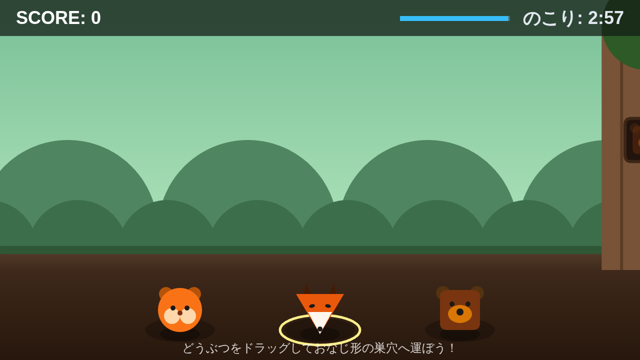
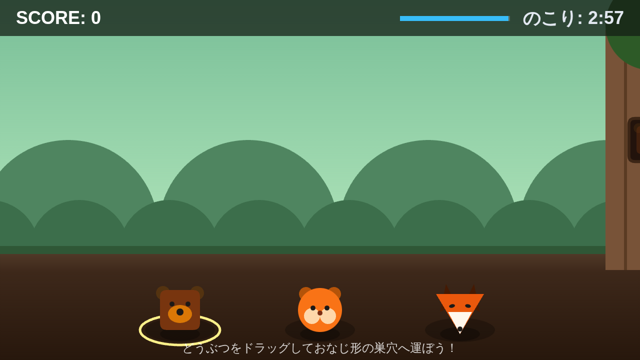
ミニゲームを更新（全 17 本）

diff --git a/index.html b/index.html
@@ -81,7 +81,7 @@ dialog::backdrop{background:rgba(3,4,10,.75)}
 </div>
 <main id="list"></main>
 <dialog id="dlg"><div class="sheet" id="sheet"></div></dialog>
-<script type="application/json" id="data">[{"id": "20261124-133436-gemini-flash", "title": "スクラップバスター", "summary": "暴走ロボが溢れかえる機械工場を舞台にした全方位シューティング！3分間でギアを集めハイスコアを叩き出せ。", "rules": ["ドラッグ操作で自機ドローンを360度自由に移動させます。", "弾は最も近い敵へ向けて自動で連続発射されます。", "敵を破壊すると出現する「ギア」を拾うと得点と倍率ゲージがアップします。", "敵や敵弾に当たるとHPが減少し、倍率がリセットされます。", "制限時間180秒（3分）生き残り、最高スコアを目指します（HPゼロでも終了）。"], "controls": {"スマホ": "画面を指でドラッグして自機を全方向へ移動（相対移動）。攻撃は自動で行われます。", "PC": "マウスのドラッグまたは矢印キー（WASD）で自機を全方向へ移動。攻撃は自動で行われます。"}, "playTime": "約3分", "tags": {"視点": "全方向", "核": "シューティング", "ひねり": "なし", "勝利条件": "スコアアタック", "操作": "ドラッグ", "テーマ": "機械工場", "プレイ時間": "約3分"}, "created": "2026-11-24T13:34:36", "fixes": 0, "batch": "20261124-133436", "profile": "gemini-flash", "label": "Gemini 3.8 Flash", "models": {"planner": "gemini-3.8-flash", "coder": "gemini-3.8-flash"}, "mock": false, "review": {"fun_score": 4, "comment": null}}, {"id": "20261124-134810-gemini-flash", "title": "あまやみダイブ", "summary": "暗闇に包まれた巨大スイーツの底へダイブ！光る金平糖を操作し、一瞬の視界を頼りに障害物を避けて3分間生き延びよう。", "rules": ["周囲しか見えない暗闇の中を落下し続ける縦スクロールアクション。", "左右スワイプで障害物を回避し、危険な仕掛けを避ける。", "タップで発動する『シュガースパーク』で一瞬だけ画面全体を照らし、ルートを確認できる。", "障害物にぶつからずに3分間（180秒）生き延びればゲームクリア。"], "controls": {"スマホ": "左右スワイプで金平糖を横移動。タップで光を放ち、一瞬だけ視界を全開にする。", "PC": "左右矢印キー（またはA/D）で移動。マウスクリックまたはスペースキーで全画面フラッシュ。"}, "playTime": "約3分", "tags": {"視点": "縦スクロール", "核": "アクション", "ひねり": "周囲しか見えない暗闇", "勝利条件": "生存時間", "操作": "タップ/スワイプ", "テーマ": "お菓子", "プレイ時間": "約3分"}, "created": "2026-11-24T13:48:10", "fixes": 0, "batch": "20261124-134810", "profile": "gemini-flash", "label": "Gemini 3.8 Flash", "models": {"planner": "gemini-3.8-flash", "coder": "gemini-3.8-flash"}, "mock": false, "review": {"fun_score": 4, "comment": null}}, {"id": "20261124-134953-gemini-flash", "title": "ツインルーン", "summary": "正反対に動く2体の使い魔を操り、古代遺跡のギミックを解き明かすシンクロパズル！制限時間3分でどれだけ多くの祭壇を起動できるか挑もう。", "rules": ["十字キーで太陽の使い魔（順行）と月の使い魔（点対称で逆行）が2体同時に動きます。", "2体の間を結ぶ光の糸をルーンストーンに接触させると回収でき、スコアとコンボ倍率が増加します。", "部屋にある2つの祭壇に太陽と月を同時に重ねると部屋クリアとなり、残り時間が増加して次のパズルへ進みます。", "制限時間3分（180秒）以内に解いた部屋数と回収したルーンの合計スコアを競います。"], "controls": {"スマホ": "画面下の十字キーで2体同時に移動。リンクボタン（Aボタン）を押している間、2体の間に光の糸を張ります。", "PC": "矢印キー/WASDで2体同時に移動。Zキー/Spaceキーを押している間、2体の間に光の糸を張ります。"}, "playTime": "約3分", "tags": {"視点": "全方向", "核": "パズル", "ひねり": "自機が2体同時に動く", "勝利条件": "スコアアタック", "操作": "仮想パッド", "テーマ": "ドット絵風", "プレイ時間": "約3分"}, "created": "2026-11-24T13:49:53", "fixes": 0, "batch": "20261124-134953", "profile": "gemini-flash", "label": "Gemini 3.8 Flash", "models": {"planner": "gemini-3.8-flash", "coder": "gemini-3.8-flash"}, "mock": false, "review": {"fun_score": 4, "comment": null}}, {"id": "20261124-135140-gemini-flash", "title": "スターソーター", "summary": "宇宙艇を操り、漂うエネルギークオーツを同色で3つ並べて消去する王道全方向パズルアクション。", "rules": ["仮想十字キーで宇宙艇を全方向に動かし、Aボタンで目の前のクオーツを牽引・運搬します。", "同じ色のクオーツを縦または横に3つ以上一直線に接触させると消滅し、スコアを獲得します。", "制限時間は3分間。連続で素早く消すとコンボボーナスが発生します。"], "controls": {"スマホ": "画面下の十字キーで宇宙艇の移動。Aボタンでクオーツの牽引／解放を切り替えます。", "PC": "矢印キーで宇宙艇の移動。Zキー（Aボタン）でクオーツの牽引／解放を切り替えます。"}, "playTime": "約3分", "tags": {"視点": "全方向", "核": "パズル", "ひねり": "なし", "勝利条件": "スコアアタック", "操作": "仮想パッド", "テーマ": "宇宙", "プレイ時間": "約3分"}, "created": "2026-11-24T13:51:40", "fixes": 0, "batch": "20261124-135140", "profile": "gemini-flash", "label": "Gemini 3.8 Flash", "models": {"planner": "gemini-3.8-flash", "coder": "gemini-3.8-flash"}, "mock": false, "review": {"fun_score": 4, "comment": null}}, {"id": "20261124-135334-gemini-flash", "title": "すりぬけグミタワー", "summary": "異色はすり抜け、同色だけが積み重なる！3分間で巨大なスイーツタワーを築き上げる新感覚落ちモノパズル。", "rules": ["上から落ちてくるグミは「同じ色」と「床」にしか衝突せず、違う色はすり抜けて落下します。", "同じ色のグミをタテ・ヨコに3つ以上つなげると弾けて消滅し、スコアを獲得できます。", "グミを消すとカメラが上へスクロールし、新たなトレイ（床）が現れてタワーが上空へ伸びていきます。", "制限時間は3分間。画面上部にあるデンジャーラインまで同色グミが詰まるとペナルティ（減点＆数秒フリーズ）となります。"], "controls": {"スマホ": "画面を左右スワイプで落下中グミの移動、下スワイプで即座に着地、タップでグミの向きを90度回転。", "PC": "左右矢印キーで移動、下キー（またはスペース）で高速落下、上キーまたはクリックで回転。"}, "playTime": "約3分", "tags": {"視点": "縦スクロール", "核": "落ちモノパズル", "ひねり": "同じ色同士でしか干渉しない", "勝利条件": "スコアアタック", "操作": "タップ/スワイプ", "テーマ": "お菓子", "プレイ時間": "約3分"}, "created": "2026-11-24T13:53:34", "fixes": 0, "batch": "20261124-135334", "profile": "gemini-flash", "label": "Gemini 3.8 Flash", "models": {"planner": "gemini-3.8-flash", "coder": "gemini-3.8-flash"}, "mock": false, "review": {"fun_score": 4, "comment": null}}, {"id": "20261124-135650-gemini-flash", "title": "もりのわくあわせ", "summary": "流れてくる大木の穴に、形に合った森の動物たちをドラッグしてすっぽりはめる横スクロール型はめパズル！", "rules": ["右から左へ流れてくる大木には「丸・三角・四角」の形をした巣穴が開いている。", "画面内の動物（リス＝丸、キツネ＝三角、クマ＝四角）をドラッグして正しい巣穴へ運ぶ。", "ぴったり合う巣穴にはめると得点＆コンボ増加。違う穴に入れると弾かれてコンボがリセット。", "3分間の制限時間内にできるだけ多くの動物をお家に帰してハイスコアを目指す。"], "controls": {"スマホ": "画面をドラッグして動物を掴み、そのまま指を滑らせて目的の巣穴まで運んで離します。", "PC": "マウスドラッグまたは矢印キーで動物を掴んで移動させ、巣穴に重ねて配置します。"}, "playTime": "約3分", "tags": {"視点": "横スクロール", "核": "パズル", "ひねり": "なし", "勝利条件": "スコアアタック", "操作": "ドラッグ", "テーマ": "森と動物", "プレイ時間": "約3分"}, "created": "2026-11-24T13:56:50", "fixes": 1, "batch": "20261124-135650", "profile": "gemini-flash", "label": "Gemini 3.8 Flash", "models": {"planner": "gemini-3.8-flash", "coder": "gemini-3.8-flash"}, "mock": false, "review": {"fun_score": 4, "comment": null}}, {"id": "20261124-140247-gemini-flash", "title": "マグネフォージ", "summary": "磁気ドローンを操り、鉄くずを引き寄せて弾き飛ばす工場アクション！スクラップを炉へ一気にシュートしてハイスコアを目指せ。", "rules": ["十字キーで全方向に移動し、Aボタンで磁気吸引、Bボタンで磁気反発を発動する", "散らばる金属スクラップを吸引して引き連れ、反発で画面上部の「溶解炉」へ弾き飛ばすと得点", "赤熱した危険ボルトに当たるとタイムロス。反発で弾き飛ばして安全を確保せよ", "制限時間180秒（3分）でどれだけ多くのスクラップを処理できるかを競う"], "controls": {"スマホ": "画面下の十字キーで移動、Aボタンで吸い寄せ（長押し）、Bボタンで周囲へ強力に弾き飛ばします。", "PC": "矢印キーで移動、Zキー長押しで吸い寄せ、Xキーで弾き飛ばします。"}, "playTime": "約3分", "tags": {"視点": "全方向", "核": "アクション", "ひねり": "磁石で引き寄せる・弾く", "勝利条件": "スコアアタック", "操作": "仮想パッド", "テーマ": "機械工場", "プレイ時間": "約3分"}, "created": "2026-11-24T14:02:47", "fixes": 0, "batch": "20261124-140247", "profile": "gemini-flash", "label": "Gemini 3.8 Flash", "models": {"planner": "gemini-3.8-flash", "coder": "gemini-3.8-flash"}, "mock": false, "review": {"fun_score": 4, "comment": null}}, {"id": "20261124-140403-gemini-flash", "title": "ネオンバウンド", "summary": "煌めく夜の摩天楼を駆け抜けろ！ビルの壁で反射するレーザーを駆使して、正面無敵の暴走ボスを撃破する跳弾シューティング。", "rules": ["画面ドラッグで自機（サイバーバイク）を自由に移動、ショットは自動連射", "左右のビルの壁に弾を当てると斜めに反射し、攻撃力と弾速がアップ", "道中の敵ドローンを倒しながら夜の高速道路を進み、最奥のボスを目指す", "ボスは正面シールドを展開！壁の反射弾を側面や背後に撃ち込んで撃破せよ"], "controls": {"スマホ": "画面を指でドラッグして自機を移動（指の相対移動で自機が隠れません）。", "PC": "マウスドラッグまたは矢印キー（WASD）で自機を移動。"}, "playTime": "約1分", "tags": {"視点": "縦スクロール", "核": "シューティング", "ひねり": "弾や物体が壁で反射する", "勝利条件": "ボス撃破", "操作": "ドラッグ", "テーマ": "夜の街", "プレイ時間": "約1分"}, "created": "2026-11-24T14:04:03", "fixes": 0, "batch": "20261124-140403", "profile": "gemini-flash", "label": "Gemini 3.8 Flash", "models": {"planner": "gemini-3.8-flash", "coder": "gemini-3.8-flash"}, "mock": false, "review": {"fun_score": 4, "comment": null}}, {"id": "20261124-140554-gemini-flash", "title": "ペラリクラフト", "summary": "紙工作の世界でブロックを積んで消す落ちモノパズル。一定時間ごとに紙が裏返り、左右操作が反転するハプニングを乗り越えてゴールを目指します。", "rules": ["上から落ちてくる折り紙ブロックを並べ、横一列揃えて消すとステージが下へ進みます。", "数秒ごとに画面がペラッとめくれ、オモテとウラが切り替わります。", "ウラ面中は左右キーの操作が反転！落ち着いて操作を切り替えましょう。", "ブロックを規定ライン数消して一番奥のゴールへ到達すればクリア。上まで詰まると失敗です。"], "controls": {"スマホ": "画面下の十字キーでピースの左右移動と高速落下、Aボタンでピースを回転させます。", "PC": "矢印キー（左右で移動・下で落下）とZキー（またはAキー）でピースを回転させます。"}, "playTime": "約1分", "tags": {"視点": "縦スクロール", "核": "落ちモノパズル", "ひねり": "操作が一定時間ごとに反転する", "勝利条件": "ステージクリア", "操作": "仮想パッド", "テーマ": "紙工作風", "プレイ時間": "約1分"}, "created": "2026-11-24T14:05:54", "fixes": 0, "batch": "20261124-140554", "profile": "gemini-flash", "label": "Gemini 3.8 Flash", "models": {"planner": "gemini-3.8-flash", "coder": "gemini-3.8-flash"}, "mock": false, "review": {"fun_score": 4, "comment": null}}, {"id": "20261124-140745-gemini-flash", "title": "アストロデュオ", "summary": "点対称に逆連動する2隻の宇宙船を同時に操り、全方向から迫る隕石群を回避し続けるサバイバルアクション。", "rules": ["画面をドラッグすると、青の機体はそのまま、赤の機体は正反対の方向へ同時に動きます。", "画面外から全方向で飛来する小惑星や宇宙デブリを、2隻とも当たらないように避け続けます。", "どちらか1隻でも衝突するとシールドが尽きてゲームオーバーになります。", "3分間（180秒）生き残ると救助ワープが発動してクリアです。"], "controls": {"スマホ": "画面を指でドラッグして2隻を操作します（指の移動量に応じて相対移動します）。", "PC": "マウスのドラッグ、または矢印キーで2隻を同時に動かします。"}, "playTime": "約3分", "tags": {"視点": "全方向", "核": "アクション", "ひねり": "自機が2体同時に動く", "勝利条件": "生存時間", "操作": "ドラッグ", "テーマ": "宇宙", "プレイ時間": "約3分"}, "created": "2026-11-24T14:07:45", "fixes": 0, "batch": "20261124-140745", "profile": "gemini-flash", "label": "Gemini 3.8 Flash", "models": {"planner": "gemini-3.8-flash", "coder": "gemini-3.8-flash"}, "mock": false, "review": {"fun_score": 4, "comment": null}}, {"id": "20261124-140914-gemini-flash", "title": "クリームバレット", "summary": "迫りくるホイップクリームの壁を押し戻しながら、360度から湧き出るお菓子を撃ち倒す全方向シューティング。", "rules": ["画面ドラッグで自機を全方向に移動し、自動連射される弾で敵お菓子を撃破します。", "画面外周から生クリームが迫り、安全エリアが徐々に狭くなります。", "敵を倒すと出る「イチゴ」を拾うと、クリームを押し戻して視界を広げられます。", "クリームに押しつぶされるか敵に当たるとゲーム終了。3分耐え抜いてハイスコアを目指します。"], "controls": {"スマホ": "画面を指でドラッグして自機を相対移動（指で自機が隠れません）。射撃は自動。", "PC": "マウスドラッグまたは矢印キー（WASD）で自機を移動。射撃は自動。"}, "playTime": "約3分", "tags": {"視点": "全方向", "核": "シューティング", "ひねり": "画面がだんだん狭くなる", "勝利条件": "スコアアタック", "操作": "ドラッグ", "テーマ": "お菓子", "プレイ時間": "約3分"}, "created": "2026-11-24T14:09:14", "fixes": 0, "batch": "20261124-140914", "profile": "gemini-flash", "label": "Gemini 3.8 Flash", "models": {"planner": "gemini-3.8-flash", "coder": "gemini-3.8-flash"}, "mock": false, "review": {"fun_score": 4, "comment": null}}, {"id": "20261124-151033-gemini-flash", "title": "マカロンスプリット", "summary": "叩くたびに倍増するスイーツの群れをかき分け、巨大ボスマカロンの完全討伐を目指す横スクロールアクション！", "rules": ["左右キーで移動、Aでジャンプ、Bでスプーン攻撃。", "敵のお菓子は倒すと2体の小さなサイズに分裂して素早く跳ね回る。", "最奥に待ち構えるボスマカロンを分裂させ、最小サイズまで全て倒せばクリア。", "敵やトゲに3回接触してハートがゼロになるとゲームオーバー。"], "controls": {"スマホ": "十字キーで移動、Aボタンでジャンプ、Bボタンでスプーン攻撃を行います。", "PC": "矢印キーで移動、Zキーでジャンプ、Xキーでスプーン攻撃を行います。"}, "playTime": "約3分", "tags": {"視点": "横スクロール", "核": "アクション", "ひねり": "倒すと分裂する", "勝利条件": "ボス撃破", "操作": "仮想パッド", "テーマ": "お菓子", "プレイ時間": "約3分"}, "created": "2026-11-24T15:10:53", "fixes": 0, "batch": "20261124-151033", "profile": "gemini-flash", "label": "Gemini 3.8 Flash", "models": {"planner": "gemini-flash", "coder": "gemini-3.8-flash"}, "mock": false, "review": {"fun_score": 4, "comment": null}}, {"id": "20261124-151033-local-llm", "title": "マカロンスプリット", "summary": "叩くたびに倍増するスイーツの群れをかき分け、巨大ボスマカロンの完全討伐を目指す横スクロールアクション！", "rules": ["左右キーで移動、Aでジャンプ、Bでスプーン攻撃。", "敵のお菓子は倒すと2体の小さなサイズに分裂して素早く跳ね回る。", "最奥に待ち構えるボスマカロンを分裂させ、最小サイズまで全て倒せばクリア。", "敵やトゲに3回接触してハートがゼロになるとゲームオーバー。"], "controls": {"スマホ": "十字キーで移動、Aボタンでジャンプ、Bボタンでスプーン攻撃を行います。", "PC": "矢印キーで移動、Zキーでジャンプ、Xキーでスプーン攻撃を行います。"}, "playTime": "約3分", "tags": {"視点": "横スクロール", "核": "アクション", "ひねり": "倒すと分裂する", "勝利条件": "ボス撃破", "操作": "仮想パッド", "テーマ": "お菓子", "プレイ時間": "約3分"}, "created": "2026-11-24T15:12:24", "fixes": 0, "batch": "20261124-151033", "profile": "local-llm", "label": "ローカルLLM", "models": {"planner": "gemini-flash", "coder": "Qwen/Qwen3.8-27B"}, "mock": false, "review": {"fun_score": 4, "comment": null}}, {"id": "20261124-151819-gemini-flash", "title": "クラヤミビーコン", "summary": "視界ゼロの暗黒宇宙をライトの明かりだけを頼りに突き進む、ワンボタン操作の全方位サバイバルアクション。", "rules": ["自機は自動で時計回りに旋回し、画面を押している間だけ向いている方向へブースト前進します。", "自機の周囲ごくわずかしか見えない暗闇の中、迫り来るデブリや宇宙機雷を避けてください。", "浮遊する「フォトン」を拾うと視界が一時的に広がり、索敵が有利になります。", "障害物に一度でも激突すると大破。3分間（180秒）生き延びれば脱出成功です。"], "controls": {"スマホ": "画面タップ長押しでブースト前進。指を離すとその場で旋回します。", "PC": "スペースキー/Zキー長押しでブースト前進。キーを離すとその場で旋回します。"}, "playTime": "約3分", "tags": {"視点": "全方向", "核": "アクション", "ひねり": "周囲しか見えない暗闇", "勝利条件": "生存時間", "操作": "ワンボタン", "テーマ": "宇宙", "プレイ時間": "約3分"}, "created": "2026-11-24T15:18:42", "fixes": 0, "batch": "20261124-151819", "profile": "gemini-flash", "label": "Gemini 3.8 Flash", "models": {"planner": "gemini-flash", "coder": "gemini-3.8-flash"}, "mock": false, "review": {"fun_score": 4, "comment": null}}, {"id": "20261124-151819-local-llm", "title": "クラヤミビーコン", "summary": "視界ゼロの暗黒宇宙をライトの明かりだけを頼りに突き進む、ワンボタン操作の全方位サバイバルアクション。", "rules": ["自機は自動で時計回りに旋回し、画面を押している間だけ向いている方向へブースト前進します。", "自機の周囲ごくわずかしか見えない暗闇の中、迫り来るデブリや宇宙機雷を避けてください。", "浮遊する「フォトン」を拾うと視界が一時的に広がり、索敵が有利になります。", "障害物に一度でも激突すると大破。3分間（180秒）生き延びれば脱出成功です。"], "controls": {"スマホ": "画面タップ長押しでブースト前進。指を離すとその場で旋回します。", "PC": "スペースキー/Zキー長押しでブースト前進。キーを離すとその場で旋回します。"}, "playTime": "約3分", "tags": {"視点": "全方向", "核": "アクション", "ひねり": "周囲しか見えない暗闇", "勝利条件": "生存時間", "操作": "ワンボタン", "テーマ": "宇宙", "プレイ時間": "約3分"}, "created": "2026-11-24T15:19:50", "fixes": 0, "batch": "20261124-151819", "profile": "local-llm", "label": "ローカルLLM", "models": {"planner": "gemini-flash", "coder": "Qwen/Qwen3.8-27B"}, "mock": false, "review": {"fun_score": 4, "comment": null}}, {"id": "20261124-160004-gemini-flash", "title": "オリガミてんち", "summary": "クラフト紙の世界を傾け、折り紙のコマを滑らせる全方向アクション。タップの重力反転でトラップをすり抜け、全ステージ走破を目指そう！", "rules": ["スワイプで盤面を傾けて重力を上下左右に切り替え、紙のコマを滑らせる", "タップすると重力の向きが真逆に反転！急停止や切り返しに活用しよう", "画鋲やハサミ、台紙の穴に触れるとミスになり、ステージの最初からやり直し", "散らばった金箔シールをすべて回収し、点線の「のりしろゴール」に入ればステージクリア（全5面）"], "controls": {"スマホ": "上下左右スワイプで重力の方向を指定。画面タップで現在の重力を180度反転。", "PC": "矢印キー（またはWASD）で重力方向を指定。画面クリックで重力を180度反転。"}, "playTime": "約3分", "tags": {"視点": "全方向", "核": "アクション", "ひねり": "重力反転", "勝利条件": "ステージクリア", "操作": "タップ/スワイプ", "テーマ": "紙工作風", "プレイ時間": "約3分"}, "created": "2026-11-24T16:00:04", "fixes": 0, "batch": "20261124-160004", "profile": "gemini-flash", "label": "Gemini 3.8 Flash", "models": {"planner": "gemini-3.8-flash", "coder": "gemini-3.8-flash"}, "mock": false, "review": {"fun_score": 4, "comment": null}}, {"id": "20261124-164406-gemini-flash", "title": "焦熱のプリン王", "summary": "四方から迫る焦げの壁を避けながら暴走するプリン王を撃破せよ！刻一刻と狭まる天板の上で戦うお菓子アクション。", "rules": ["十字キーで移動し、Aボタンで金平糖ショットを撃ってボスを攻撃します。", "時間が経つにつれて画面の四方からオーブンの熱で焦げた壁が迫り、足場が縮小します。", "焦げた外周に触れると継続ダメージ、ボスの攻撃に当たると即ダメージを受けます。", "制限時間（約60秒で足場が最小化）内にボスのHPを削り切れば勝利です。"], "controls": {"スマホ": "画面下の十字キーで8方向移動、Aボタンで金平糖ショットを向いている方向に連射します。", "PC": "矢印キーで8方向移動、Zキーで金平糖ショットを向いている方向に連射します。"}, "playTime": "約1分", "tags": {"視点": "全方向", "核": "アクション", "ひねり": "画面がだんだん狭くなる", "勝利条件": "ボス撃破", "操作": "仮想パッド", "テーマ": "お菓子", "プレイ時間": "約1分"}, "created": "2026-11-24T16:45:35", "fixes": 0, "batch": "20261124-164406", "mock": false, "profile": "gemini-flash", "label": "Gemini 3.8 Flash", "models": {"planner": "gemini-3.8-flash", "coder": "gemini-3.8-flash"}, "code_chars": 13785, "review": {"fun_score": 4, "comment": "プリンのボスとお菓子の世界観が可愛らしく表現されており、だんだんとステージが焦げて狭まっていく緊迫感とボスの多彩な攻撃（弾幕・ヒップアタック）が合わさって完成度の高いボスバトルになっています。", "by": "gemini-flash"}}]</script>
+<script type="application/json" id="data">[{"id": "20261124-133436-gemini-flash", "title": "スクラップバスター", "summary": "暴走ロボが溢れかえる機械工場を舞台にした全方位シューティング！3分間でギアを集めハイスコアを叩き出せ。", "rules": ["ドラッグ操作で自機ドローンを360度自由に移動させます。", "弾は最も近い敵へ向けて自動で連続発射されます。", "敵を破壊すると出現する「ギア」を拾うと得点と倍率ゲージがアップします。", "敵や敵弾に当たるとHPが減少し、倍率がリセットされます。", "制限時間180秒（3分）生き残り、最高スコアを目指します（HPゼロでも終了）。"], "controls": {"スマホ": "画面を指でドラッグして自機を全方向へ移動（相対移動）。攻撃は自動で行われます。", "PC": "マウスのドラッグまたは矢印キー（WASD）で自機を全方向へ移動。攻撃は自動で行われます。"}, "playTime": "約3分", "tags": {"視点": "全方向", "核": "シューティング", "ひねり": "なし", "勝利条件": "スコアアタック", "操作": "ドラッグ", "テーマ": "機械工場", "プレイ時間": "約3分"}, "created": "2026-11-24T13:34:36", "fixes": 0, "batch": "20261124-133436", "profile": "gemini-flash", "label": "Gemini 3.8 Flash", "models": {"planner": "gemini-3.8-flash", "coder": "gemini-3.8-flash"}, "mock": false, "review": {"fun_score": 4, "comment": null}}, {"id": "20261124-134810-gemini-flash", "title": "あまやみダイブ", "summary": "暗闇に包まれた巨大スイーツの底へダイブ！光る金平糖を操作し、一瞬の視界を頼りに障害物を避けて3分間生き延びよう。", "rules": ["周囲しか見えない暗闇の中を落下し続ける縦スクロールアクション。", "左右スワイプで障害物を回避し、危険な仕掛けを避ける。", "タップで発動する『シュガースパーク』で一瞬だけ画面全体を照らし、ルートを確認できる。", "障害物にぶつからずに3分間（180秒）生き延びればゲームクリア。"], "controls": {"スマホ": "左右スワイプで金平糖を横移動。タップで光を放ち、一瞬だけ視界を全開にする。", "PC": "左右矢印キー（またはA/D）で移動。マウスクリックまたはスペースキーで全画面フラッシュ。"}, "playTime": "約3分", "tags": {"視点": "縦スクロール", "核": "アクション", "ひねり": "周囲しか見えない暗闇", "勝利条件": "生存時間", "操作": "タップ/スワイプ", "テーマ": "お菓子", "プレイ時間": "約3分"}, "created": "2026-11-24T13:48:10", "fixes": 0, "batch": "20261124-134810", "profile": "gemini-flash", "label": "Gemini 3.8 Flash", "models": {"planner": "gemini-3.8-flash", "coder": "gemini-3.8-flash"}, "mock": false, "review": {"fun_score": 4, "comment": null}}, {"id": "20261124-134953-gemini-flash", "title": "ツインルーン", "summary": "正反対に動く2体の使い魔を操り、古代遺跡のギミックを解き明かすシンクロパズル！制限時間3分でどれだけ多くの祭壇を起動できるか挑もう。", "rules": ["十字キーで太陽の使い魔（順行）と月の使い魔（点対称で逆行）が2体同時に動きます。", "2体の間を結ぶ光の糸をルーンストーンに接触させると回収でき、スコアとコンボ倍率が増加します。", "部屋にある2つの祭壇に太陽と月を同時に重ねると部屋クリアとなり、残り時間が増加して次のパズルへ進みます。", "制限時間3分（180秒）以内に解いた部屋数と回収したルーンの合計スコアを競います。"], "controls": {"スマホ": "画面下の十字キーで2体同時に移動。リンクボタン（Aボタン）を押している間、2体の間に光の糸を張ります。", "PC": "矢印キー/WASDで2体同時に移動。Zキー/Spaceキーを押している間、2体の間に光の糸を張ります。"}, "playTime": "約3分", "tags": {"視点": "全方向", "核": "パズル", "ひねり": "自機が2体同時に動く", "勝利条件": "スコアアタック", "操作": "仮想パッド", "テーマ": "ドット絵風", "プレイ時間": "約3分"}, "created": "2026-11-24T13:49:53", "fixes": 0, "batch": "20261124-134953", "profile": "gemini-flash", "label": "Gemini 3.8 Flash", "models": {"planner": "gemini-3.8-flash", "coder": "gemini-3.8-flash"}, "mock": false, "review": {"fun_score": 4, "comment": null}}, {"id": "20261124-135140-gemini-flash", "title": "スターソーター", "summary": "宇宙艇を操り、漂うエネルギークオーツを同色で3つ並べて消去する王道全方向パズルアクション。", "rules": ["仮想十字キーで宇宙艇を全方向に動かし、Aボタンで目の前のクオーツを牽引・運搬します。", "同じ色のクオーツを縦または横に3つ以上一直線に接触させると消滅し、スコアを獲得します。", "制限時間は3分間。連続で素早く消すとコンボボーナスが発生します。"], "controls": {"スマホ": "画面下の十字キーで宇宙艇の移動。Aボタンでクオーツの牽引／解放を切り替えます。", "PC": "矢印キーで宇宙艇の移動。Zキー（Aボタン）でクオーツの牽引／解放を切り替えます。"}, "playTime": "約3分", "tags": {"視点": "全方向", "核": "パズル", "ひねり": "なし", "勝利条件": "スコアアタック", "操作": "仮想パッド", "テーマ": "宇宙", "プレイ時間": "約3分"}, "created": "2026-11-24T13:51:40", "fixes": 0, "batch": "20261124-135140", "profile": "gemini-flash", "label": "Gemini 3.8 Flash", "models": {"planner": "gemini-3.8-flash", "coder": "gemini-3.8-flash"}, "mock": false, "review": {"fun_score": 4, "comment": null}}, {"id": "20261124-135334-gemini-flash", "title": "すりぬけグミタワー", "summary": "異色はすり抜け、同色だけが積み重なる！3分間で巨大なスイーツタワーを築き上げる新感覚落ちモノパズル。", "rules": ["上から落ちてくるグミは「同じ色」と「床」にしか衝突せず、違う色はすり抜けて落下します。", "同じ色のグミをタテ・ヨコに3つ以上つなげると弾けて消滅し、スコアを獲得できます。", "グミを消すとカメラが上へスクロールし、新たなトレイ（床）が現れてタワーが上空へ伸びていきます。", "制限時間は3分間。画面上部にあるデンジャーラインまで同色グミが詰まるとペナルティ（減点＆数秒フリーズ）となります。"], "controls": {"スマホ": "画面を左右スワイプで落下中グミの移動、下スワイプで即座に着地、タップでグミの向きを90度回転。", "PC": "左右矢印キーで移動、下キー（またはスペース）で高速落下、上キーまたはクリックで回転。"}, "playTime": "約3分", "tags": {"視点": "縦スクロール", "核": "落ちモノパズル", "ひねり": "同じ色同士でしか干渉しない", "勝利条件": "スコアアタック", "操作": "タップ/スワイプ", "テーマ": "お菓子", "プレイ時間": "約3分"}, "created": "2026-11-24T13:53:34", "fixes": 0, "batch": "20261124-135334", "profile": "gemini-flash", "label": "Gemini 3.8 Flash", "models": {"planner": "gemini-3.8-flash", "coder": "gemini-3.8-flash"}, "mock": false, "review": {"fun_score": 4, "comment": null}}, {"id": "20261124-135650-gemini-flash", "title": "もりのわくあわせ", "summary": "流れてくる大木の穴に、形に合った森の動物たちをドラッグしてすっぽりはめる横スクロール型はめパズル！", "rules": ["右から左へ流れてくる大木には「丸・三角・四角」の形をした巣穴が開いている。", "画面内の動物（リス＝丸、キツネ＝三角、クマ＝四角）をドラッグして正しい巣穴へ運ぶ。", "ぴったり合う巣穴にはめると得点＆コンボ増加。違う穴に入れると弾かれてコンボがリセット。", "3分間の制限時間内にできるだけ多くの動物をお家に帰してハイスコアを目指す。"], "controls": {"スマホ": "画面をドラッグして動物を掴み、そのまま指を滑らせて目的の巣穴まで運んで離します。", "PC": "マウスドラッグまたは矢印キーで動物を掴んで移動させ、巣穴に重ねて配置します。"}, "playTime": "約3分", "tags": {"視点": "横スクロール", "核": "パズル", "ひねり": "なし", "勝利条件": "スコアアタック", "操作": "ドラッグ", "テーマ": "森と動物", "プレイ時間": "約3分"}, "created": "2026-11-24T13:56:50", "fixes": 1, "batch": "20261124-135650", "profile": "gemini-flash", "label": "Gemini 3.8 Flash", "models": {"planner": "gemini-3.8-flash", "coder": "gemini-3.8-flash"}, "mock": false, "review": {"fun_score": 4, "comment": null}, "fix_history": [{"time": "2026-11-25T07:51:24", "note": "ラッグする動物が見えな1番目の動物は見えるがそれをドラッグすると2番目以降の動物が見えない。画面の下に見切れているように思う。それを見越してドラッグすると動物が出てくる。", "profile": "gemini-flash", "backup": "20261124-135650-gemini-flash-20261125-075124"}]}, {"id": "20261124-140247-gemini-flash", "title": "マグネフォージ", "summary": "磁気ドローンを操り、鉄くずを引き寄せて弾き飛ばす工場アクション！スクラップを炉へ一気にシュートしてハイスコアを目指せ。", "rules": ["十字キーで全方向に移動し、Aボタンで磁気吸引、Bボタンで磁気反発を発動する", "散らばる金属スクラップを吸引して引き連れ、反発で画面上部の「溶解炉」へ弾き飛ばすと得点", "赤熱した危険ボルトに当たるとタイムロス。反発で弾き飛ばして安全を確保せよ", "制限時間180秒（3分）でどれだけ多くのスクラップを処理できるかを競う"], "controls": {"スマホ": "画面下の十字キーで移動、Aボタンで吸い寄せ（長押し）、Bボタンで周囲へ強力に弾き飛ばします。", "PC": "矢印キーで移動、Zキー長押しで吸い寄せ、Xキーで弾き飛ばします。"}, "playTime": "約3分", "tags": {"視点": "全方向", "核": "アクション", "ひねり": "磁石で引き寄せる・弾く", "勝利条件": "スコアアタック", "操作": "仮想パッド", "テーマ": "機械工場", "プレイ時間": "約3分"}, "created": "2026-11-24T14:02:47", "fixes": 0, "batch": "20261124-140247", "profile": "gemini-flash", "label": "Gemini 3.8 Flash", "models": {"planner": "gemini-3.8-flash", "coder": "gemini-3.8-flash"}, "mock": false, "review": {"fun_score": 4, "comment": null}}, {"id": "20261124-140403-gemini-flash", "title": "ネオンバウンド", "summary": "煌めく夜の摩天楼を駆け抜けろ！ビルの壁で反射するレーザーを駆使して、正面無敵の暴走ボスを撃破する跳弾シューティング。", "rules": ["画面ドラッグで自機（サイバーバイク）を自由に移動、ショットは自動連射", "左右のビルの壁に弾を当てると斜めに反射し、攻撃力と弾速がアップ", "道中の敵ドローンを倒しながら夜の高速道路を進み、最奥のボスを目指す", "ボスは正面シールドを展開！壁の反射弾を側面や背後に撃ち込んで撃破せよ"], "controls": {"スマホ": "画面を指でドラッグして自機を移動（指の相対移動で自機が隠れません）。", "PC": "マウスドラッグまたは矢印キー（WASD）で自機を移動。"}, "playTime": "約1分", "tags": {"視点": "縦スクロール", "核": "シューティング", "ひねり": "弾や物体が壁で反射する", "勝利条件": "ボス撃破", "操作": "ドラッグ", "テーマ": "夜の街", "プレイ時間": "約1分"}, "created": "2026-11-24T14:04:03", "fixes": 0, "batch": "20261124-140403", "profile": "gemini-flash", "label": "Gemini 3.8 Flash", "models": {"planner": "gemini-3.8-flash", "coder": "gemini-3.8-flash"}, "mock": false, "review": {"fun_score": 4, "comment": null}}, {"id": "20261124-140554-gemini-flash", "title": "ペラリクラフト", "summary": "紙工作の世界でブロックを積んで消す落ちモノパズル。一定時間ごとに紙が裏返り、左右操作が反転するハプニングを乗り越えてゴールを目指します。", "rules": ["上から落ちてくる折り紙ブロックを並べ、横一列揃えて消すとステージが下へ進みます。", "数秒ごとに画面がペラッとめくれ、オモテとウラが切り替わります。", "ウラ面中は左右キーの操作が反転！落ち着いて操作を切り替えましょう。", "ブロックを規定ライン数消して一番奥のゴールへ到達すればクリア。上まで詰まると失敗です。"], "controls": {"スマホ": "画面下の十字キーでピースの左右移動と高速落下、Aボタンでピースを回転させます。", "PC": "矢印キー（左右で移動・下で落下）とZキー（またはAキー）でピースを回転させます。"}, "playTime": "約1分", "tags": {"視点": "縦スクロール", "核": "落ちモノパズル", "ひねり": "操作が一定時間ごとに反転する", "勝利条件": "ステージクリア", "操作": "仮想パッド", "テーマ": "紙工作風", "プレイ時間": "約1分"}, "created": "2026-11-24T14:05:54", "fixes": 0, "batch": "20261124-140554", "profile": "gemini-flash", "label": "Gemini 3.8 Flash", "models": {"planner": "gemini-3.8-flash", "coder": "gemini-3.8-flash"}, "mock": false, "review": {"fun_score": 4, "comment": null}}, {"id": "20261124-140745-gemini-flash", "title": "アストロデュオ", "summary": "点対称に逆連動する2隻の宇宙船を同時に操り、全方向から迫る隕石群を回避し続けるサバイバルアクション。", "rules": ["画面をドラッグすると、青の機体はそのまま、赤の機体は正反対の方向へ同時に動きます。", "画面外から全方向で飛来する小惑星や宇宙デブリを、2隻とも当たらないように避け続けます。", "どちらか1隻でも衝突するとシールドが尽きてゲームオーバーになります。", "3分間（180秒）生き残ると救助ワープが発動してクリアです。"], "controls": {"スマホ": "画面を指でドラッグして2隻を操作します（指の移動量に応じて相対移動します）。", "PC": "マウスのドラッグ、または矢印キーで2隻を同時に動かします。"}, "playTime": "約3分", "tags": {"視点": "全方向", "核": "アクション", "ひねり": "自機が2体同時に動く", "勝利条件": "生存時間", "操作": "ドラッグ", "テーマ": "宇宙", "プレイ時間": "約3分"}, "created": "2026-11-24T14:07:45", "fixes": 0, "batch": "20261124-140745", "profile": "gemini-flash", "label": "Gemini 3.8 Flash", "models": {"planner": "gemini-3.8-flash", "coder": "gemini-3.8-flash"}, "mock": false, "review": {"fun_score": 4, "comment": null}}, {"id": "20261124-140914-gemini-flash", "title": "クリームバレット", "summary": "迫りくるホイップクリームの壁を押し戻しながら、360度から湧き出るお菓子を撃ち倒す全方向シューティング。", "rules": ["画面ドラッグで自機を全方向に移動し、自動連射される弾で敵お菓子を撃破します。", "画面外周から生クリームが迫り、安全エリアが徐々に狭くなります。", "敵を倒すと出る「イチゴ」を拾うと、クリームを押し戻して視界を広げられます。", "クリームに押しつぶされるか敵に当たるとゲーム終了。3分耐え抜いてハイスコアを目指します。"], "controls": {"スマホ": "画面を指でドラッグして自機を相対移動（指で自機が隠れません）。射撃は自動。", "PC": "マウスドラッグまたは矢印キー（WASD）で自機を移動。射撃は自動。"}, "playTime": "約3分", "tags": {"視点": "全方向", "核": "シューティング", "ひねり": "画面がだんだん狭くなる", "勝利条件": "スコアアタック", "操作": "ドラッグ", "テーマ": "お菓子", "プレイ時間": "約3分"}, "created": "2026-11-24T14:09:14", "fixes": 0, "batch": "20261124-140914", "profile": "gemini-flash", "label": "Gemini 3.8 Flash", "models": {"planner": "gemini-3.8-flash", "coder": "gemini-3.8-flash"}, "mock": false, "review": {"fun_score": 4, "comment": null}}, {"id": "20261124-151033-gemini-flash", "title": "マカロンスプリット", "summary": "叩くたびに倍増するスイーツの群れをかき分け、巨大ボスマカロンの完全討伐を目指す横スクロールアクション！", "rules": ["左右キーで移動、Aでジャンプ、Bでスプーン攻撃。", "敵のお菓子は倒すと2体の小さなサイズに分裂して素早く跳ね回る。", "最奥に待ち構えるボスマカロンを分裂させ、最小サイズまで全て倒せばクリア。", "敵やトゲに3回接触してハートがゼロになるとゲームオーバー。"], "controls": {"スマホ": "十字キーで移動、Aボタンでジャンプ、Bボタンでスプーン攻撃を行います。", "PC": "矢印キーで移動、Zキーでジャンプ、Xキーでスプーン攻撃を行います。"}, "playTime": "約3分", "tags": {"視点": "横スクロール", "核": "アクション", "ひねり": "倒すと分裂する", "勝利条件": "ボス撃破", "操作": "仮想パッド", "テーマ": "お菓子", "プレイ時間": "約3分"}, "created": "2026-11-24T15:10:53", "fixes": 0, "batch": "20261124-151033", "profile": "gemini-flash", "label": "Gemini 3.8 Flash", "models": {"planner": "gemini-flash", "coder": "gemini-3.8-flash"}, "mock": false, "review": {"fun_score": 4, "comment": null}}, {"id": "20261124-151033-local-llm", "title": "マカロンスプリット", "summary": "叩くたびに倍増するスイーツの群れをかき分け、巨大ボスマカロンの完全討伐を目指す横スクロールアクション！", "rules": ["左右キーで移動、Aでジャンプ、Bでスプーン攻撃。", "敵のお菓子は倒すと2体の小さなサイズに分裂して素早く跳ね回る。", "最奥に待ち構えるボスマカロンを分裂させ、最小サイズまで全て倒せばクリア。", "敵やトゲに3回接触してハートがゼロになるとゲームオーバー。"], "controls": {"スマホ": "十字キーで移動、Aボタンでジャンプ、Bボタンでスプーン攻撃を行います。", "PC": "矢印キーで移動、Zキーでジャンプ、Xキーでスプーン攻撃を行います。"}, "playTime": "約3分", "tags": {"視点": "横スクロール", "核": "アクション", "ひねり": "倒すと分裂する", "勝利条件": "ボス撃破", "操作": "仮想パッド", "テーマ": "お菓子", "プレイ時間": "約3分"}, "created": "2026-11-24T15:12:24", "fixes": 0, "batch": "20261124-151033", "profile": "local-llm", "label": "ローカルLLM", "models": {"planner": "gemini-flash", "coder": "Qwen/Qwen3.8-27B"}, "mock": false, "review": {"fun_score": 4, "comment": null}}, {"id": "20261124-151819-gemini-flash", "title": "クラヤミビーコン", "summary": "視界ゼロの暗黒宇宙をライトの明かりだけを頼りに突き進む、ワンボタン操作の全方位サバイバルアクション。", "rules": ["自機は自動で時計回りに旋回し、画面を押している間だけ向いている方向へブースト前進します。", "自機の周囲ごくわずかしか見えない暗闇の中、迫り来るデブリや宇宙機雷を避けてください。", "浮遊する「フォトン」を拾うと視界が一時的に広がり、索敵が有利になります。", "障害物に一度でも激突すると大破。3分間（180秒）生き延びれば脱出成功です。"], "controls": {"スマホ": "画面タップ長押しでブースト前進。指を離すとその場で旋回します。", "PC": "スペースキー/Zキー長押しでブースト前進。キーを離すとその場で旋回します。"}, "playTime": "約3分", "tags": {"視点": "全方向", "核": "アクション", "ひねり": "周囲しか見えない暗闇", "勝利条件": "生存時間", "操作": "ワンボタン", "テーマ": "宇宙", "プレイ時間": "約3分"}, "created": "2026-11-24T15:18:42", "fixes": 0, "batch": "20261124-151819", "profile": "gemini-flash", "label": "Gemini 3.8 Flash", "models": {"planner": "gemini-flash", "coder": "gemini-3.8-flash"}, "mock": false, "review": {"fun_score": 4, "comment": null}}, {"id": "20261124-151819-local-llm", "title": "クラヤミビーコン", "summary": "視界ゼロの暗黒宇宙をライトの明かりだけを頼りに突き進む、ワンボタン操作の全方位サバイバルアクション。", "rules": ["自機は自動で時計回りに旋回し、画面を押している間だけ向いている方向へブースト前進します。", "自機の周囲ごくわずかしか見えない暗闇の中、迫り来るデブリや宇宙機雷を避けてください。", "浮遊する「フォトン」を拾うと視界が一時的に広がり、索敵が有利になります。", "障害物に一度でも激突すると大破。3分間（180秒）生き延びれば脱出成功です。"], "controls": {"スマホ": "画面タップ長押しでブースト前進。指を離すとその場で旋回します。", "PC": "スペースキー/Zキー長押しでブースト前進。キーを離すとその場で旋回します。"}, "playTime": "約3分", "tags": {"視点": "全方向", "核": "アクション", "ひねり": "周囲しか見えない暗闇", "勝利条件": "生存時間", "操作": "ワンボタン", "テーマ": "宇宙", "プレイ時間": "約3分"}, "created": "2026-11-24T15:19:50", "fixes": 0, "batch": "20261124-151819", "profile": "local-llm", "label": "ローカルLLM", "models": {"planner": "gemini-flash", "coder": "Qwen/Qwen3.8-27B"}, "mock": false, "review": {"fun_score": 4, "comment": null}}, {"id": "20261124-160004-gemini-flash", "title": "オリガミてんち", "summary": "クラフト紙の世界を傾け、折り紙のコマを滑らせる全方向アクション。タップの重力反転でトラップをすり抜け、全ステージ走破を目指そう！", "rules": ["スワイプで盤面を傾けて重力を上下左右に切り替え、紙のコマを滑らせる", "タップすると重力の向きが真逆に反転！急停止や切り返しに活用しよう", "画鋲やハサミ、台紙の穴に触れるとミスになり、ステージの最初からやり直し", "散らばった金箔シールをすべて回収し、点線の「のりしろゴール」に入ればステージクリア（全5面）"], "controls": {"スマホ": "上下左右スワイプで重力の方向を指定。画面タップで現在の重力を180度反転。", "PC": "矢印キー（またはWASD）で重力方向を指定。画面クリックで重力を180度反転。"}, "playTime": "約3分", "tags": {"視点": "全方向", "核": "アクション", "ひねり": "重力反転", "勝利条件": "ステージクリア", "操作": "タップ/スワイプ", "テーマ": "紙工作風", "プレイ時間": "約3分"}, "created": "2026-11-24T16:00:04", "fixes": 0, "batch": "20261124-160004", "profile": "gemini-flash", "label": "Gemini 3.8 Flash", "models": {"planner": "gemini-3.8-flash", "coder": "gemini-3.8-flash"}, "mock": false, "review": {"fun_score": 4, "comment": null}}, {"id": "20261124-164406-gemini-flash", "title": "焦熱のプリン王", "summary": "四方から迫る焦げの壁を避けながら暴走するプリン王を撃破せよ！刻一刻と狭まる天板の上で戦うお菓子アクション。", "rules": ["十字キーで移動し、Aボタンで金平糖ショットを撃ってボスを攻撃します。", "時間が経つにつれて画面の四方からオーブンの熱で焦げた壁が迫り、足場が縮小します。", "焦げた外周に触れると継続ダメージ、ボスの攻撃に当たると即ダメージを受けます。", "制限時間（約60秒で足場が最小化）内にボスのHPを削り切れば勝利です。"], "controls": {"スマホ": "画面下の十字キーで8方向移動、Aボタンで金平糖ショットを向いている方向に連射します。", "PC": "矢印キーで8方向移動、Zキーで金平糖ショットを向いている方向に連射します。"}, "playTime": "約1分", "tags": {"視点": "全方向", "核": "アクション", "ひねり": "画面がだんだん狭くなる", "勝利条件": "ボス撃破", "操作": "仮想パッド", "テーマ": "お菓子", "プレイ時間": "約1分"}, "created": "2026-11-24T16:45:35", "fixes": 0, "batch": "20261124-164406", "mock": false, "profile": "gemini-flash", "label": "Gemini 3.8 Flash", "models": {"planner": "gemini-3.8-flash", "coder": "gemini-3.8-flash"}, "code_chars": 13785, "review": {"fun_score": 4, "comment": "プリンのボスとお菓子の世界観が可愛らしく表現されており、だんだんとステージが焦げて狭まっていく緊迫感とボスの多彩な攻撃（弾幕・ヒップアタック）が合わさって完成度の高いボスバトルになっています。", "by": "gemini-flash"}}]</script>
 <script>
 const GAMES = JSON.parse(document.getElementById("data").textContent);
 const $ = (id) => document.getElementById(id);

diff --git a/compare.html b/compare.html
@@ -46,7 +46,7 @@ tr:last-child td{border-bottom:0}
 <p class="sub">記録された問題はありません。</p>
 
 <h2>すべての実行（通常モードも含む）</h2>
-<div class="scroll"><table><tr><th>モデル</th><th>試行</th><th>成功</th><th>成功率</th><th>一発合格</th><th>平均修正回数</th><th>AI評価(5点)</th><th>1本の費用</th><th>成功1本あたり</th><th>1本の時間</th><th>コード量(文字)</th></tr><tr><td><b>Gemini 3.8 Flash</b><div class='small'>gemini-flash ・ gemini-3.8-flash</div></td><td>16</td><td>15</td><td>94%<span class="bar" style="width:46px"></span></td><td>88%</td><td>0.1</td><td class="best">4.0</td><td>$0.043</td><td>$0.046</td><td class="best">2.5分</td><td>16,974</td></tr><tr><td><b>ローカルLLM</b><div class='small'>local-llm ・ Qwen/Qwen3.8-27B</div></td><td>2</td><td>2</td><td class="best">100%<span class="bar" style="width:50px"></span></td><td class="best">100%</td><td class="best">0.0</td><td class="best">4.0</td><td class="best">$0.008</td><td class="best">$0.008</td><td>5.4分</td><td>17,216</td></tr></table></div>
+<div class="scroll"><table><tr><th>モデル</th><th>試行</th><th>成功</th><th>成功率</th><th>一発合格</th><th>平均修正回数</th><th>AI評価(5点)</th><th>1本の費用</th><th>成功1本あたり</th><th>1本の時間</th><th>コード量(文字)</th></tr><tr><td><b>Gemini 3.8 Flash</b><div class='small'>gemini-flash ・ gemini-3.8-flash</div></td><td>27</td><td>15</td><td>56%<span class="bar" style="width:27px"></span></td><td>52%</td><td>0.1</td><td class="best">4.0</td><td>$0.026</td><td>$0.047</td><td class="best">4.5分</td><td>16,974</td></tr><tr><td><b>ローカルLLM</b><div class='small'>local-llm ・ Qwen/Qwen3.8-27B</div></td><td>2</td><td>2</td><td class="best">100%<span class="bar" style="width:50px"></span></td><td class="best">100%</td><td class="best">0.0</td><td class="best">4.0</td><td class="best">$0.008</td><td class="best">$0.008</td><td>5.4分</td><td>17,216</td></tr></table></div>
 
 <h2 style="margin-top:32px">読み方のヒント</h2>
 <div class="note">

diff --git a/games/20261124-135650-gemini-flash.html b/games/20261124-135650-gemini-flash.html
@@ -7,6 +7,11 @@
 <meta name="mobile-web-app-capable" content="yes">
 <meta name="apple-mobile-web-app-capable" content="yes">
 <title>もりのわくあわせ</title>
+<link rel="icon" type="image/png" href="../favicon-96x96.png" sizes="96x96" />
+<link rel="icon" type="image/svg+xml" href="../favicon.svg" />
+<link rel="shortcut icon" href="../favicon.ico" />
+<link rel="apple-touch-icon" sizes="180x180" href="../apple-touch-icon.png" />
+<link rel="manifest" href="../site.webmanifest" />
 <style>
 *{box-sizing:border-box;margin:0;padding:0;-webkit-tap-highlight-color:transparent}
 html,body{height:100%;background:#0b0d14;color:#eef;overflow:hidden;
@@ -490,7 +495,7 @@ const Game = {
       { x: 460, y: 310, animal: null }
     ];
     for (let slot of this.stockSlots) {
-      slot.animal = this.createAnimal(slot.x, slot.y, this.api.util.randInt(0, 2));
+      slot.animal = this.createAnimal(slot.x, slot.y, this.api.util.randInt(0, 2), slot.x, slot.y);
     }
 
     // ドラッグ中の動物
@@ -504,13 +509,13 @@ const Game = {
     this.popups = [];
   },
 
-  createAnimal(x, y, type) {
+  createAnimal(x, y, type, homeX = x, homeY = y) {
     return {
       type: type, // 0: 丸(リス), 1: 三角(キツネ), 2: 四角(クマ)
       x: x,
       y: y,
-      homeX: x,
-      homeY: y,
+      homeX: homeX,
+      homeY: homeY,
       returning: false
     };
   },
@@ -654,7 +659,8 @@ const Game = {
     for (let i = 0; i < this.stockSlots.length; i++) {
       const slot = this.stockSlots[i];
       if (!slot.animal) {
-        slot.animal = this.createAnimal(slot.x, slot.y + 70, this.api.util.randInt(0, 2));
+        // 下から画面内の定位置(slot.y)へせり上がってくるように出現
+        slot.animal = this.createAnimal(slot.x, slot.y + 60, this.api.util.randInt(0, 2), slot.x, slot.y);
       }
       const a = slot.animal;
       if (a) {
